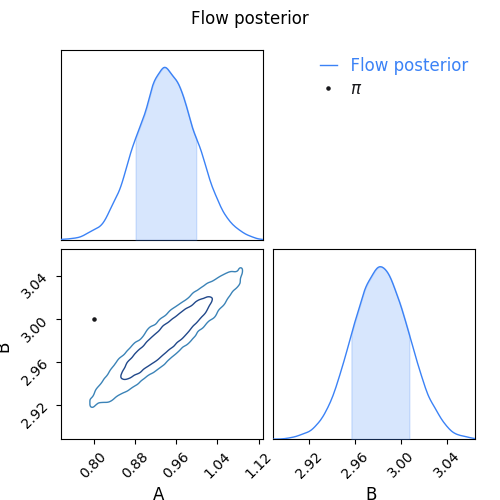
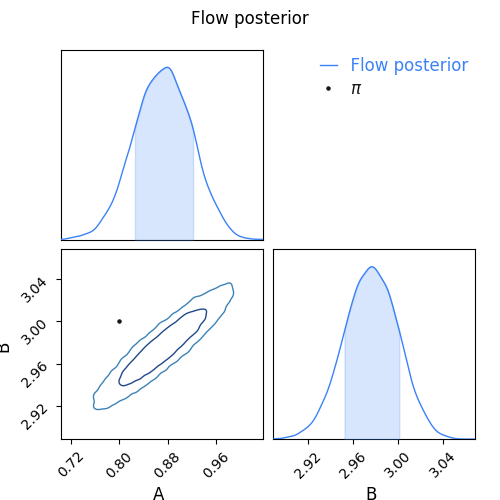
update

diff --git a/src/flow_grf.py b/src/flow_grf.py
@@ -157,7 +157,7 @@ if __name__ == "__main__":
     use_scaler          = False # Standardising scaler on data or not
     # Model and training
     n_data              = 50_000
-    d_hidden            = 128
+    d_hidden            = 8 
     n_samples           = 10
     n_steps             = 20_000
     n_batch             = 256
@@ -230,6 +230,7 @@ if __name__ == "__main__":
             steps.set_postfix(val=loss)
             losses.append(loss)
 
+    # Sample some data
     q = parameter_prior.sample((n_samples,), seed=key)
     x_sample = model.apply(params, key_sample, (n_samples,), q, method=model.sample)
 
